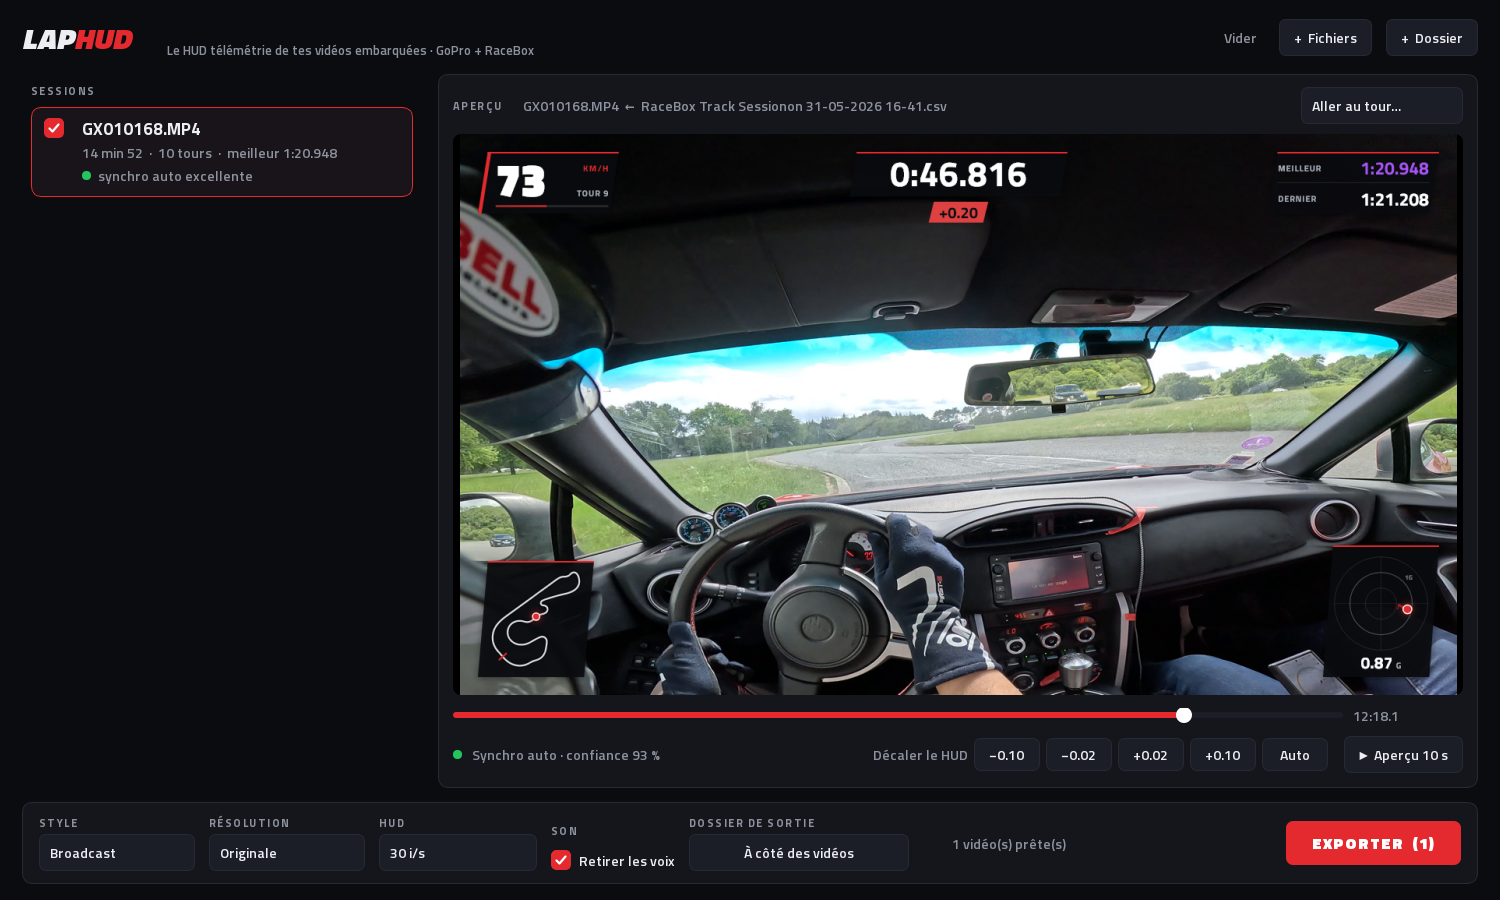
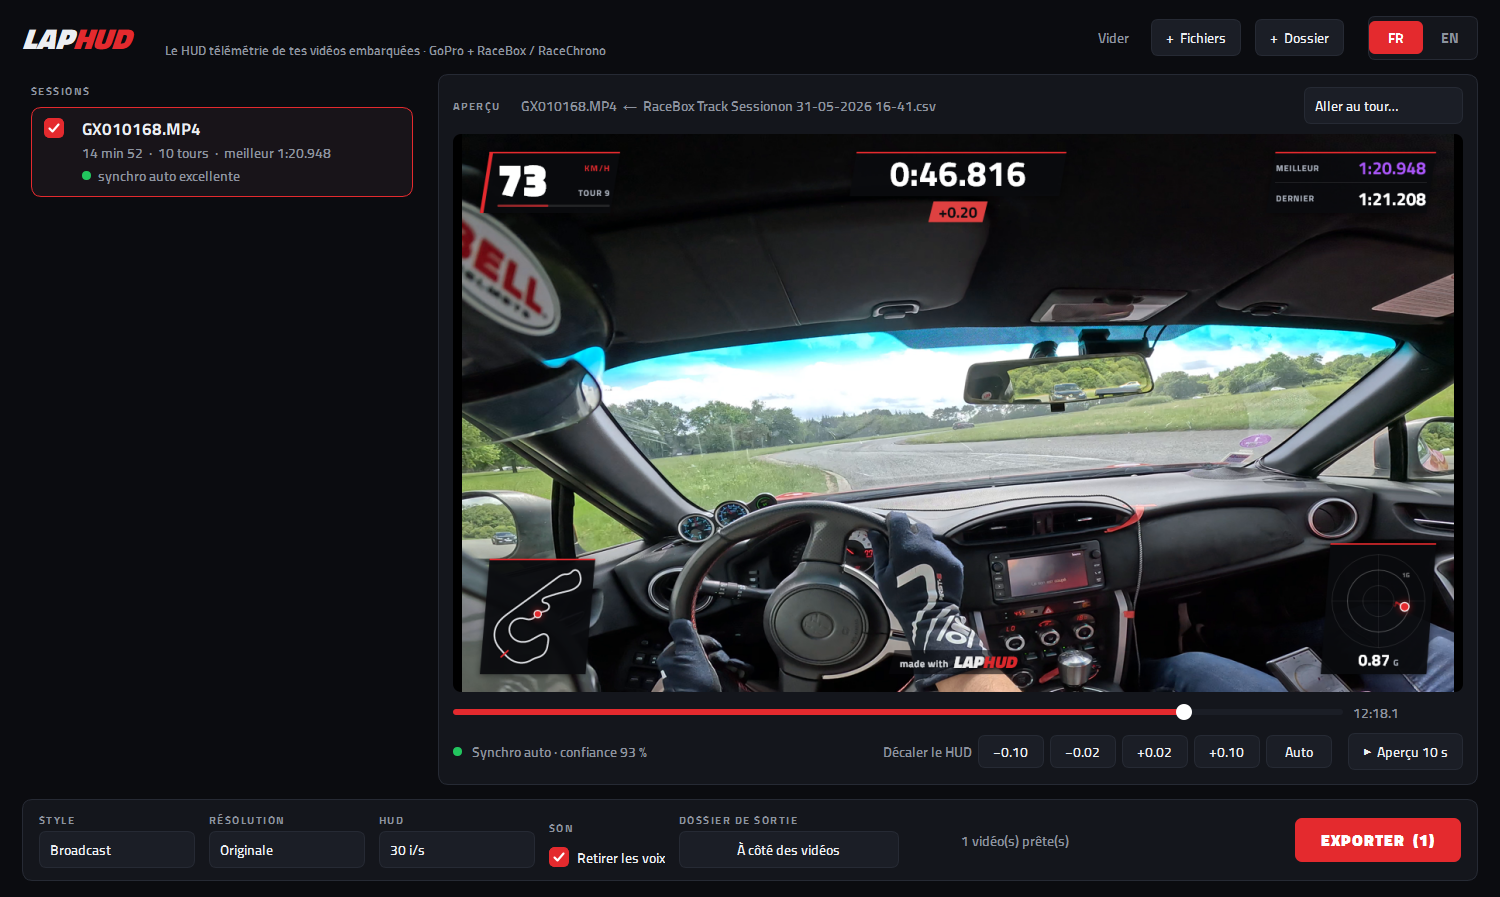
Signature « made with LAPHUD » toujours présente, version 0.2.2
La case à cocher disparaît : chaque export porte la mention. Captures de l'appli mises à jour.

diff --git a/docs/index.html b/docs/index.html
@@ -281,8 +281,8 @@ footer a { color: var(--text); }
       alt="Fenêtre de LapHUD : liste des sessions à gauche, aperçu de la vidéo avec le HUD au centre, réglages de style, résolution et son en bas."
       data-alt-en="The LapHUD window: session list on the left, video preview with the HUD in the middle, style, resolution and sound settings at the bottom.">
     <div class="app-notes">
-      <p class="fr">Trois styles de HUD : <b>Broadcast</b> façon télé F1, <b>Carbone</b> plus discret, <b>Épuré</b> sans panneaux. L'aperçu montre le HUD sur ta vidéo avant l'export. Interface et HUD en français ou en anglais, et petite signature « made with LAPHUD » en option.</p>
-      <p class="en">Three HUD styles: <b>Broadcast</b>, like F1 on TV, the more discreet <b>Carbon</b>, and <b>Clean</b> with no panels. The preview shows the HUD on your footage before you export. App and HUD in English or French, with an optional small “made with LAPHUD” mark.</p>
+      <p class="fr">Trois styles de HUD : <b>Broadcast</b> façon télé F1, <b>Carbone</b> plus discret, <b>Épuré</b> sans panneaux. L'aperçu montre le HUD sur ta vidéo avant l'export. Interface et HUD en français ou en anglais, et petite signature « made with LAPHUD » en bas de la vidéo.</p>
+      <p class="en">Three HUD styles: <b>Broadcast</b>, like F1 on TV, the more discreet <b>Carbon</b>, and <b>Clean</b> with no panels. The preview shows the HUD on your footage before you export. App and HUD in English or French, with a small “made with LAPHUD” mark at the bottom of the video.</p>
       <p class="fr">Un export interrompu ne laisse jamais de fichier à moitié écrit, et le PC ne se met pas en veille pendant le travail. Priorité basse : tu peux jouer pendant que ça tourne.</p>
       <p class="en">An interrupted export never leaves a half-written file, and the computer won't go to sleep mid-job. It runs at low priority, so you can keep gaming while it works.</p>
     </div>

diff --git a/laphud/app/window.py b/laphud/app/window.py
@@ -393,12 +393,6 @@ class MainWindow(QMainWindow):
             self.chk_voices.setToolTip(tr("voices_missing"))
         h.addLayout(labeled(tr("sound"), self.chk_voices))
 
-        self.chk_sign = QCheckBox(tr("signature"))
-        self.chk_sign.setToolTip(tr("signature_tip"))
-        self.chk_sign.setChecked(self.settings.value("signature", "false") == "true")
-        self.chk_sign.toggled.connect(self._sign_changed)
-        h.addLayout(labeled(tr("signature_lbl"), self.chk_sign))
-
         self.b_out = QPushButton()
         self.b_out.setMinimumWidth(220)
         self.b_out.clicked.connect(self._pick_out)
@@ -641,12 +635,11 @@ class MainWindow(QMainWindow):
             self._load_frame()
 
     def _renderer(self, job, w, h):
-        sign = self.chk_sign.isChecked()
-        k = (id(job.session), w, h, self.cmb_theme.currentData(), i18n.get_lang(), sign)
+        k = (id(job.session), w, h, self.cmb_theme.currentData(), i18n.get_lang())
         r = self._renderers.get(k)
         if r is None:
             r = self._renderers[k] = HudRenderer(job.session, w, h, theme=self.cmb_theme.currentData(),
-                                                 lang=i18n.get_lang(), signature=sign)
+                                                 lang=i18n.get_lang(), signature=True)
         return r
 
     def _draw_preview(self):
@@ -672,10 +665,6 @@ class MainWindow(QMainWindow):
         super().resizeEvent(e)
         if self._frame is not None:
             QTimer.singleShot(0, self._draw_preview)
-
-    def _sign_changed(self, on):
-        self.settings.setValue("signature", "true" if on else "false")
-        self._draw_preview()
 
     def _theme_changed(self):
         self.settings.setValue("theme", self.cmb_theme.currentData())
@@ -712,7 +701,7 @@ class MainWindow(QMainWindow):
         start = max(0.0, self._slider_time() - 1.0)
         out = os.path.join(self.tmp, f"apercu_{os.getpid()}_{int(start * 1000)}_{int(j.nudge * 1000)}.mp4")
         opts = export.ExportOptions(out_size=(1280, 720), hud_fps=30, theme=self.cmb_theme.currentData(),
-                                    lang=i18n.get_lang(), signature=self.chk_sign.isChecked(),
+                                    lang=i18n.get_lang(), signature=True,
                                     start=start, duration=10, workers=4)
         self._busy(True, tr("preparing_preview"))
 
@@ -759,7 +748,6 @@ class MainWindow(QMainWindow):
         low_priority(True)
         self._busy(True, tr("exporting"), cancellable=True)
         lang = i18n.get_lang()
-        sign = self.chk_sign.isChecked()
 
         def run(task):
             done = 0
@@ -770,7 +758,7 @@ class MainWindow(QMainWindow):
                 os.makedirs(os.path.dirname(out), exist_ok=True)
                 task.logged.emit(f"start:{self.jobs.index(j)}")
                 opts = export.ExportOptions(out_size=out_size, hud_fps=fps, theme=theme, lang=lang,
-                                            remove_voices=kill, signature=sign)
+                                            remove_voices=kill, signature=True)
                 try:
                     export.export(j.video, j.clip, j.session, j.sync.offset + j.nudge, out, opts,
                                   progress=lambda f, s, k=k: task.progressed.emit(

diff --git a/laphud/i18n.py b/laphud/i18n.py
@@ -47,8 +47,6 @@ T = {
         "style": "STYLE", "resolution": "RÉSOLUTION", "hud": "HUD", "sound": "SON", "out_dir": "DOSSIER DE SORTIE",
         "res_original": "Originale", "fps30": "30 i/s", "fps60": "60 i/s (plus fluide)",
         "voices": "Retirer les voix",
-        "signature": "made with LapHUD", "signature_lbl": "SIGNATURE",
-        "signature_tip": "Ajoute une petite mention « made with LAPHUD » en bas de la vidéo",
         "voices_tip": "Garde le son du moteur et de la route (modèle BS-Roformer)",
         "voices_missing": "Installe « audio-separator » pour activer cette option",
         "next_to_videos": "À côté des vidéos", "cancel": "Annuler",
@@ -117,8 +115,6 @@ T = {
         "style": "STYLE", "resolution": "RESOLUTION", "hud": "HUD", "sound": "SOUND", "out_dir": "OUTPUT FOLDER",
         "res_original": "Original", "fps30": "30 fps", "fps60": "60 fps (smoother)",
         "voices": "Remove voices",
-        "signature": "made with LapHUD", "signature_lbl": "SIGNATURE",
-        "signature_tip": "Adds a small “made with LAPHUD” mark at the bottom of the video",
         "voices_tip": "Keeps the engine and road sound (BS-Roformer model)",
         "voices_missing": "Install “audio-separator” to enable this option",
         "next_to_videos": "Next to the videos", "cancel": "Cancel",

diff --git a/laphud/export.py b/laphud/export.py
@@ -37,7 +37,7 @@ class ExportOptions:
     start: float | None = None          # extrait : début (s)
     duration: float | None = None       # extrait : durée (s)
     workers: int = 0                    # 0 = auto
-    signature: bool = False             # mention « made with LAPHUD »
+    signature: bool = True              # mention « made with LAPHUD »
 
 
 class Cancelled(Exception):

diff --git a/laphud/__init__.py b/laphud/__init__.py
@@ -5,4 +5,4 @@ Ce programme est un logiciel libre : vous pouvez le redistribuer et/ou le modifi
 selon les termes de la GNU General Public License version 3 ou ultérieure.
 Il est distribué SANS AUCUNE GARANTIE. Voir le fichier LICENSE.
 """
-__version__ = "0.2.1"
+__version__ = "0.2.2"

diff --git a/packaging/RELEASE_NOTES.md b/packaging/RELEASE_NOTES.md
@@ -1,10 +1,10 @@
-## LapHUD 0.2.1
+## LapHUD 0.2.2
 
-🇫🇷 **Signature plus lisible** : la mention « made with LAPHUD » (option *Signature*) est plus grande et posée sur un petit panneau sombre, lisible sur n'importe quel fond.
+🇫🇷 **Signature toujours présente** : chaque vidéo exportée porte la petite mention « made with LAPHUD » en bas, sur son panneau sombre. La case à cocher disparaît.
 
-🇬🇧 **More legible signature**: the “made with LAPHUD” mark (*Signature* option) is larger and sits on a small dark panel, readable on any background.
+🇬🇧 **Signature always on**: every exported video carries the small “made with LAPHUD” mark at the bottom, on its dark panel. The checkbox is gone.
 
-Rappel de la 0.2.0 / Also in 0.2.0: compatible RaceChrono (CSV v3), signature en option, gestion des GoPro sans satellites, fin d'export plus robuste.
+Aussi / Also: le README et le site expliquent l'avertissement de Windows au premier lancement (l'appli n'est pas signée) / the README and site explain the Windows warning on first launch (the app isn't code-signed).
 
 ### Téléchargements / Downloads
 

diff --git a/README.md b/README.md
@@ -32,7 +32,7 @@ Gratuit et libre (GPL-3.0), sans filigrane, sans compte, tout tourne sur ton PC.
 - **HUD net en 4K**, fluide en 30 ou 60 images/s, trois styles : Broadcast (F1), Carbone, Épuré.
 - **Aperçu avant export**, avec réglage fin de la synchro si tu veux chipoter.
 - **En français ou en anglais** : l'interface et le HUD (MEILLEUR / BEST…), selon la langue de l'ordinateur ou au choix.
-- **Signature (option)** : petite mention « made with LAPHUD » en bas de la vidéo, décochée par défaut.
+- **Signature** : petite mention « made with LAPHUD » en bas de la vidéo.
 - **Suppression des voix (option)** : garde le son du moteur et de la route.
 - **Robuste** : un export interrompu ne laisse jamais de fichier à moitié écrit, le PC ne se
   met pas en veille pendant l'export, et la priorité est basse pour que tu puisses jouer
